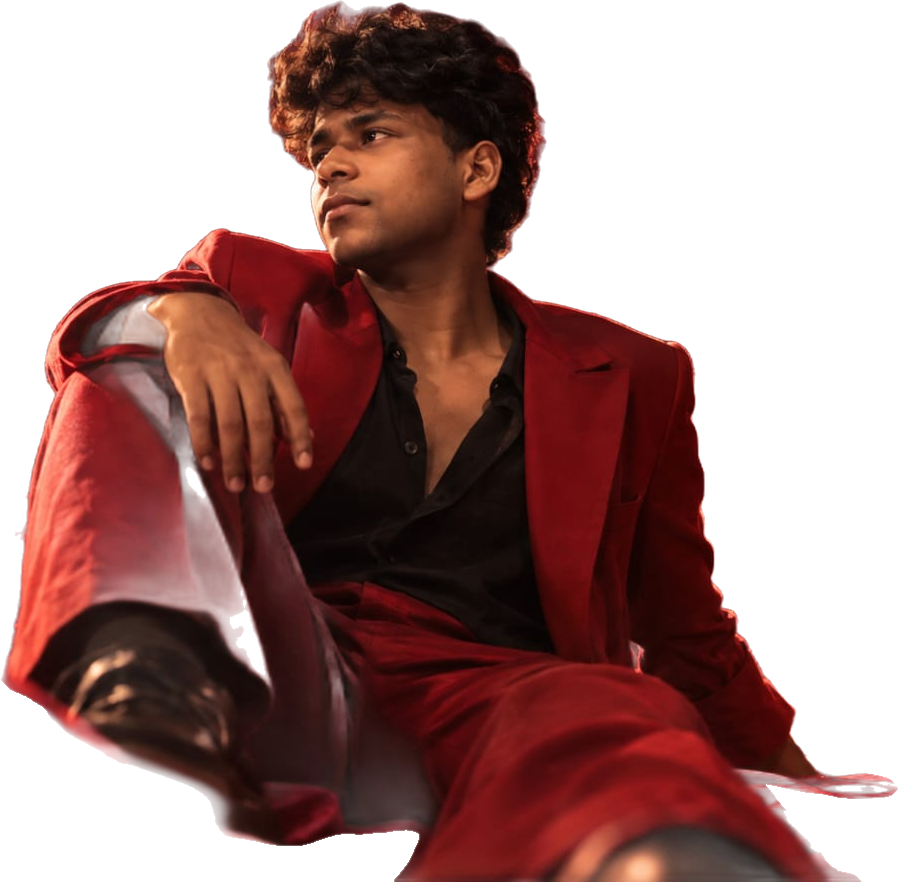
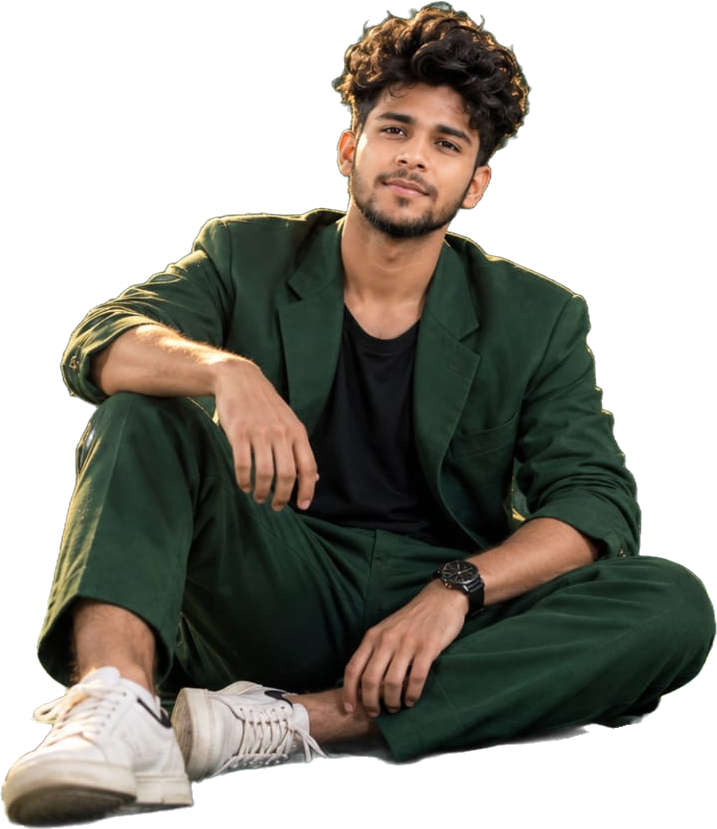
Restore the hero cut-out, from the new HERO.jpg
The cut-out had been deleted from images/, so the hero was pointing at a
file that was not there. HERO.jpg had also been replaced while it was
gone — a green suit now, seated cross-legged — so the cut-out is rebuilt
from that rather than from the red one it used to hold.

It separated cleanly with no strays, and it is taller than the near-square
red figure was, so it drops straight into the stage as fitted: the name
still clears his head, the signature still sits past his shoulder.

diff --git a/index.html b/index.html
@@ -195,7 +195,7 @@
   <div class="hero__stage" id="heroStage">
     <h1 class="hero__giant" data-depth="-.55"><span>YORVIK</span></h1>
     <figure class="hero__cut" data-depth="1">
-      <img width="898" height="882" src="images/hero-cutout.png"
+      <img width="717" height="829" src="images/hero-cutout.png"
            alt="Yorvik Sharjith Shaank" fetchpriority="high">
     </figure>
     <p class="hero__script" data-depth="1.5">Sharjith</p>
